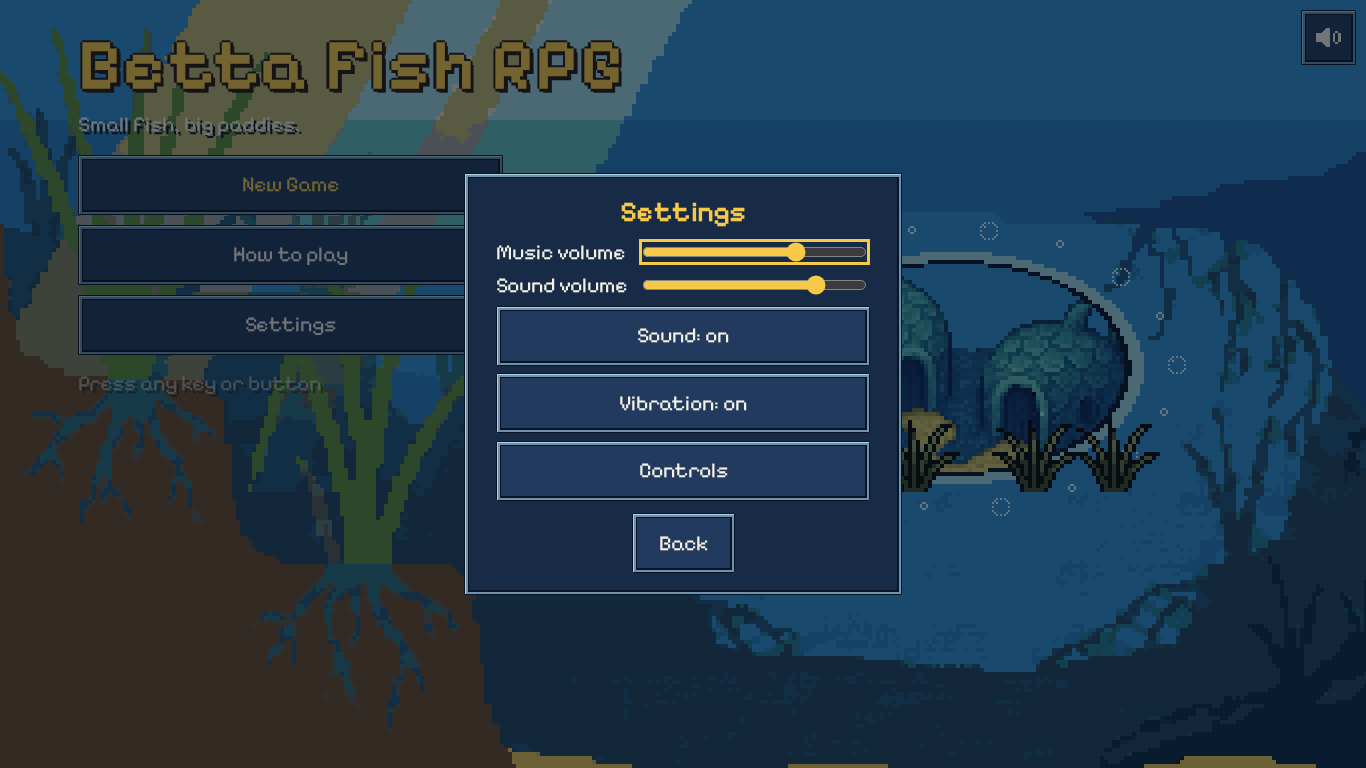
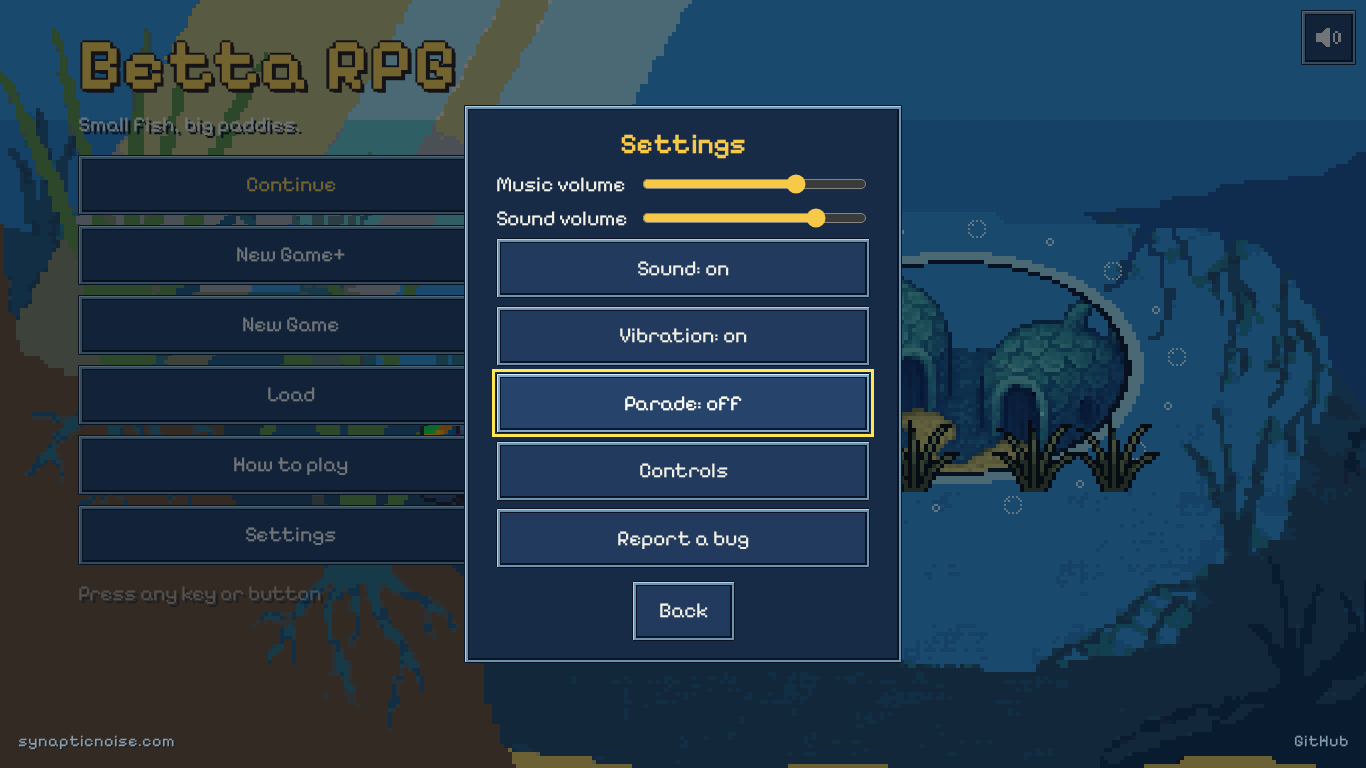
Change 1 screens checked at 1280x720 (keyboard), 1366x768 (mouse), 1920x1080 (controller), 844x390 phone (touch) with the text scanner; title and settings two to a row on phones; Snarl name in battle lines; new and replaced screenshots

diff --git a/game/style.css b/game/style.css
@@ -286,3 +286,8 @@ body.short .slots .list { gap: 4px; }
 .netpips { display: flex; align-items: center; gap: 4px; margin-top: 3px; }
 .netpips i { width: 8px; height: 8px; border: 2px solid #6B4E2E; background: transparent; }
 .netpips i.on { background: #C8B88A; }
+/* Change 1: more title buttons and settings rows; on phones they sit two to a row */
+body.short #titleMenu { display: grid; grid-template-columns: 1fr 1fr; gap: 5px; }
+body.short #setList { display: grid; grid-template-columns: 1fr 1fr; gap: 5px; }
+body.short #setList .setrow { grid-column: 1 / -1; }
+body.short #setList .btn { min-height: 44px; }

diff --git a/game/src/config.js b/game/src/config.js
@@ -85,7 +85,7 @@ export const ENEMY_HIT = 0.9;
 
 // Change 1: the Snarl, a net-tangled Mitten Crab at the top of the Spillway steps.
 export const SNARL = {
-  name: 'The Snarl', level: 5, baseHp: 30, lo: 3, hi: 5, growth: 1.5, hit: 0.9, exp: 90,
+  name: 'Snarl', title: 'The Snarl', level: 5, baseHp: 30, lo: 3, hi: 5, growth: 1.5, hit: 0.9, exp: 90,
   bites: (k) => 20 + 5 * k, netCut: 2, netKnots: 4, throwEvery: 3,
   attacks: ['snaps its tangled claws!', 'swings the heavy net!', 'scuttles sideways and pinches!'],
   pos: { x: 768, y: 462 }, freePos: { x: 1240, y: 610 }, netPos: { x: 812, y: 452 },

diff --git a/tools/screens-change1.js b/tools/screens-change1.js
@@ -143,6 +143,7 @@ async (page) => {
     if (b.row !== 'main') { await back(); continue; }
     await act('#bRow button', 'Attack');
   }
+  for (let i = 0; i < 60 && (await st()).inBattle?.busy; i++) await sleep(150);
   let b = (await st()).inBattle;
   check(!!b?.tangled, 'Tangled after a Net Throw');
   await sleep(600);
